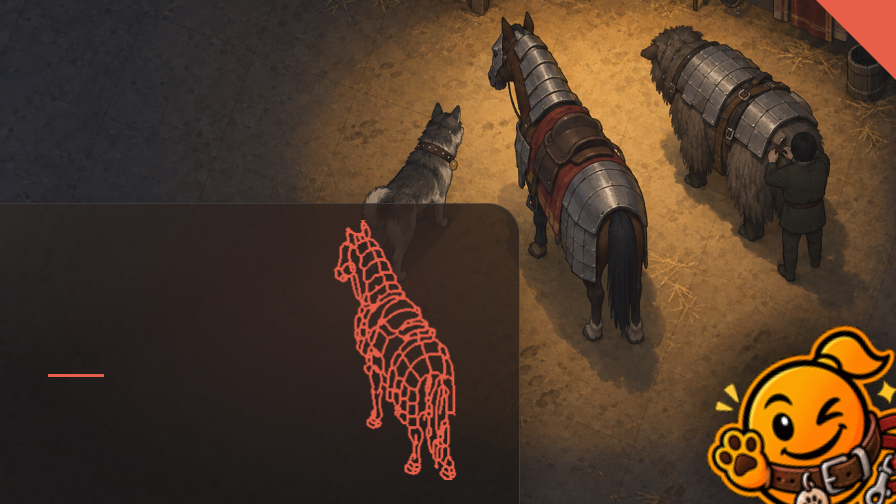
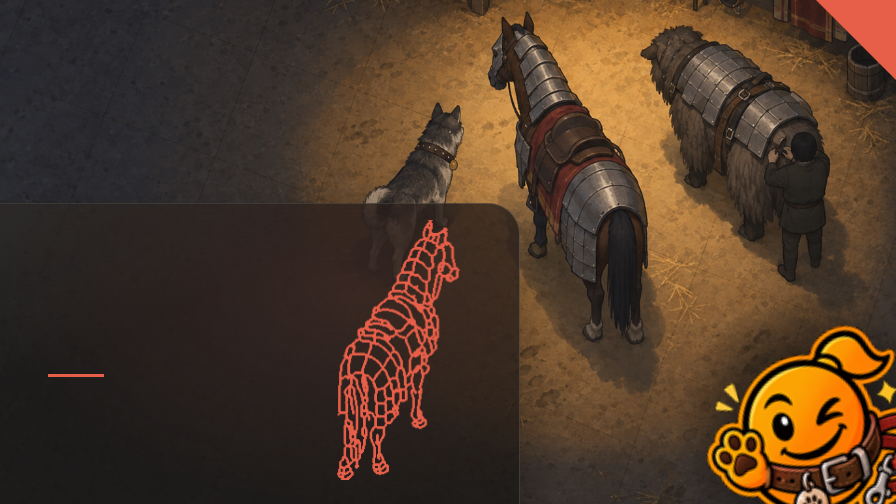
fix(preview): mirror showcase echo

Changed region(s): [[0.375, 0.4464, 0.5312, 0.9524]]

diff --git a/Art/Preview-layout.html b/Art/Preview-layout.html
@@ -4,11 +4,11 @@ html,body{width:896px;height:504px;overflow:hidden;font-family:"Segoe UI",system
 @font-face{font-family:"RimWorldTitle";src:url("file:///C:/Users/nelim/AppData/Local/Microsoft/Windows/Fonts/RimWordFont4.ttf") format("truetype")}
 body{background:url(Preview.png) center/cover}
 @property --lueur{syntax:'<percentage>';inherits:false;initial-value:24%}
-.panel{position:absolute;z-index:0;inset:0 auto auto 0;width:58%;height:auto;padding:30px 3rem 20px;box-sizing:border-box;border-radius:0 0 2rem 0;isolation:isolate;background:radial-gradient(ellipse at 65% 30%,oklch(from var(--accent) var(--lueur) calc(c * .2) h / .6),transparent 70%),linear-gradient(155deg,oklch(from var(--inkPrimary) l c h / .07),transparent 35%),oklch(from var(--veil) l c h / .72);border:solid oklch(from var(--inkPrimary) l c h / .14);border-width:0 1px 1px 0;box-shadow:0 1.5rem 3rem oklch(0% 0 0 / .35);animation:panel-light-up 1.2s 2s ease-out forwards,panel-breathe 9s 3.2s ease-in-out infinite alternate}
+.panel{position:absolute;z-index:0;inset:0 auto auto 0;width:58%;height:auto;padding:30px 3rem 20px;box-sizing:border-box;border-radius:0 0 2rem 0;overflow:hidden;isolation:isolate;background:radial-gradient(ellipse at 65% 30%,oklch(from var(--accent) var(--lueur) calc(c * .2) h / .6),transparent 70%),linear-gradient(155deg,oklch(from var(--inkPrimary) l c h / .07),transparent 35%),oklch(from var(--veil) l c h / .72);border:solid oklch(from var(--inkPrimary) l c h / .14);border-width:0 1px 1px 0;box-shadow:0 1.5rem 3rem oklch(0% 0 0 / .35);animation:panel-light-up 1.2s 2s ease-out forwards,panel-breathe 9s 3.2s ease-in-out infinite alternate}
 .panel-bottom-left{inset:auto auto 0 0;padding:20px 3rem;border-radius:0 2rem 0 0;border-width:1px 1px 0 0}
 .panel-bottom-right{inset:auto 0 0 auto;padding:20px 3rem;border-radius:2rem 0 0 0;border-width:1px 0 0 1px}
 .panel-top-right{inset:0 0 auto auto;border-radius:0 0 0 2rem;border-width:0 0 1px 1px}
-.panel>.copy{position:relative;left:auto;top:auto;width:430px}.panel>.echo{top:var(--panelEchoTop,6%);right:var(--panelEchoRight,2%);left:auto;width:var(--panelEchoWidth,60%);height:auto;aspect-ratio:var(--echoAspect,1);z-index:-1;clip-path:inset(0 100% 0 0);animation:echo-trace 1.4s 600ms ease-in-out forwards}.panel h1,.panel p{color:var(--inkPrimary)}.panel p{max-width:32ch;text-wrap:pretty}.panel .rule{width:3.5rem;height:3px;margin:1.1rem 0 1rem}
+.panel>.copy{position:relative;left:auto;top:auto;width:430px}.panel>.echo{top:var(--panelEchoTop,6%);right:var(--panelEchoRight,2%);left:auto;width:var(--panelEchoWidth,50%);height:auto;aspect-ratio:var(--echoAspect,1);z-index:-1;clip-path:inset(0 100% 0 0);animation:echo-trace 1.4s 600ms ease-in-out forwards}.panel h1,.panel p{color:var(--inkPrimary)}.panel p{max-width:32ch;text-wrap:pretty}.panel .rule{width:3.5rem;height:3px;margin:1.1rem 0 1rem}
 @keyframes echo-trace{to{clip-path:inset(0)}}
 @keyframes panel-light-up{to{--lueur:32%}}
 @keyframes panel-breathe{0%{--lueur:32%}35%{--lueur:33.5%}50%{--lueur:31.5%}80%{--lueur:34%}100%{--lueur:32.5%}}
@@ -27,4 +27,4 @@ p{font-family:"Segoe UI",system-ui,sans-serif;font-size:21px;font-weight:400;lin
 .badge{position:absolute;right:0;top:0;width:80px;height:80px;background:var(--accent);clip-path:polygon(0 0,100% 0,100% 100%)}
 .version{position:absolute;left:869px;top:27px;transform:translate(-50%,-50%) rotate(45deg);font-size:26px;font-weight:700;line-height:1;color:var(--badgeInk)}
 .icon-badge{position:absolute;right:0;bottom:0;width:220px;image-rendering:auto;transform:translate(12.5%,12.5%) rotate(-15deg)}
[2 lines of base64/hex data omitted]
